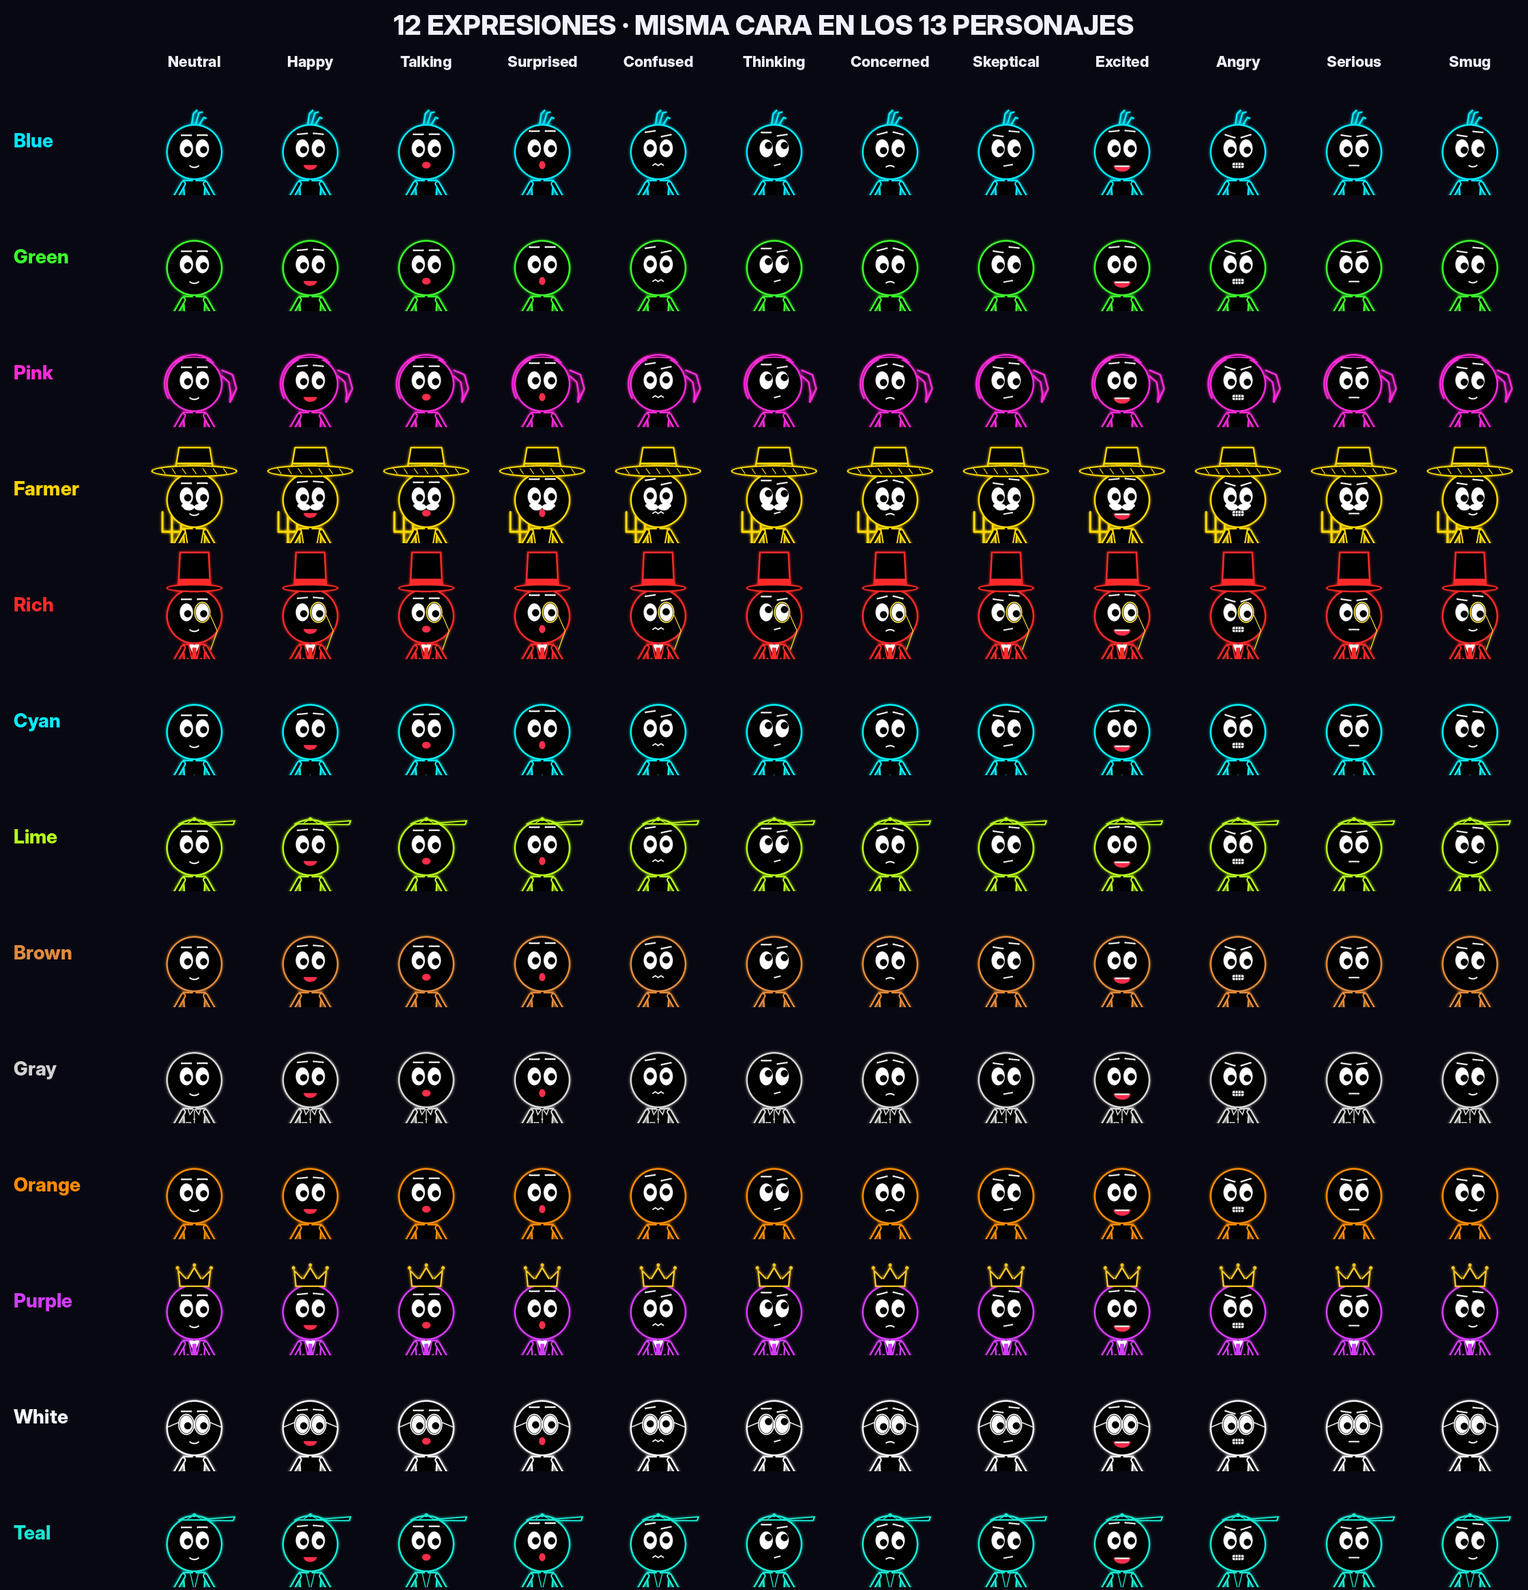
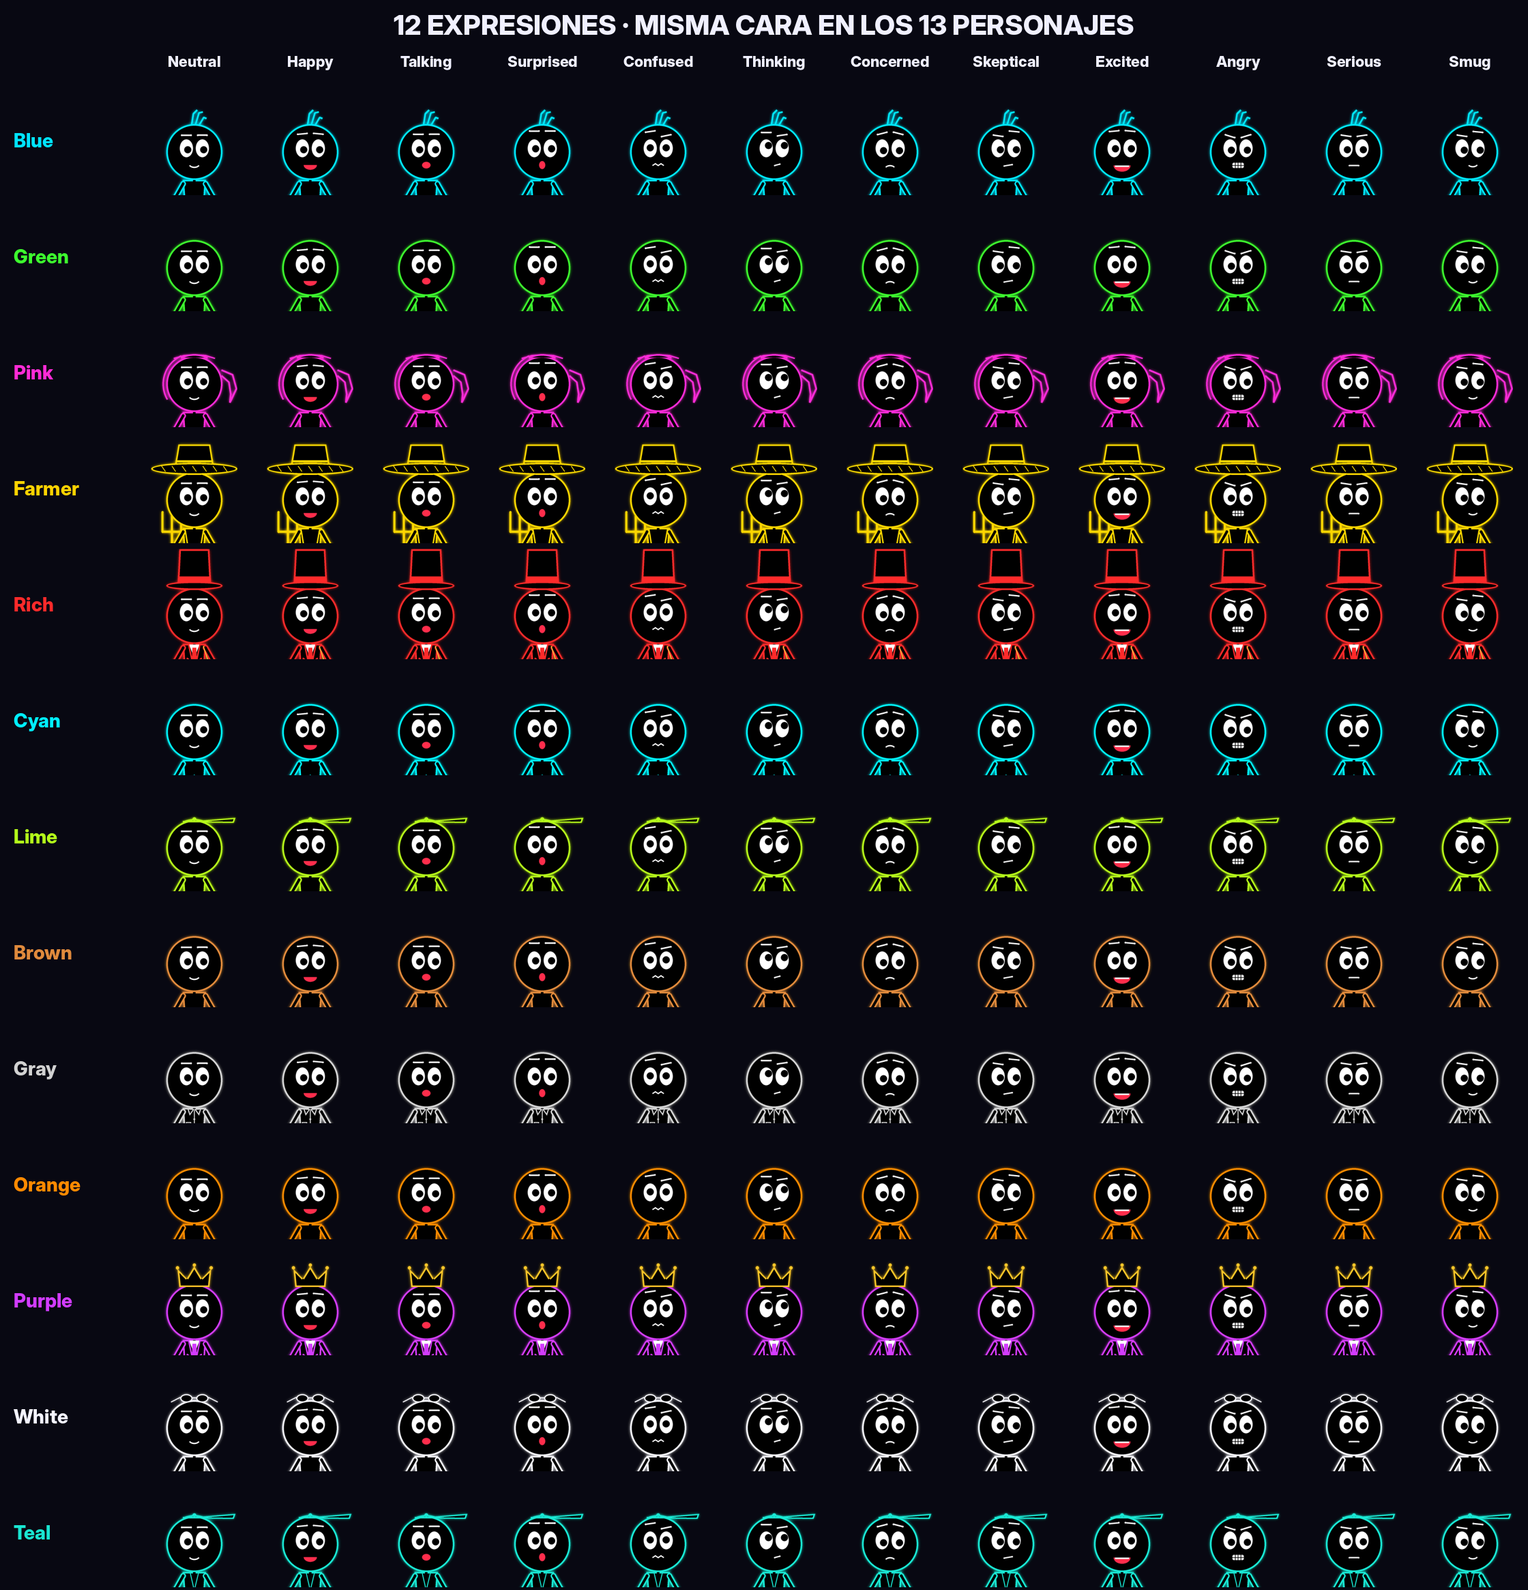
Fase 1: rostro maestro único en los 13 personajes
- Zona facial protegida (ZONA_CARA): ningún accesorio entra en ojos, pupilas, cejas ni boca
- Farmer sin bigote; monóculo de Rich colgado del traje; gafas de White sobre la frente
- Todos parten de la expresión neutral; sin expresiones propias en el catálogo
- validacion.py: mide los rasgos sobre el render y compara los 13 en las 12 expresiones
- Hoja de rostros con superposición e informe validacion_rostro.md
- Sustituye ImageDraw.chord (falla en Pillow 13) por polígonos

Claude-Session: https://claude.ai/code/session_01WwEwTdweciuZS8q7QtA6B5

diff --git a/pilo_studio/personajes/rig.py b/pilo_studio/personajes/rig.py
@@ -30,6 +30,9 @@ PUPILA = dict(r=7.5, base=(3.0, 3.0), max_dx=5.0, max_dy=9.0)
 CEJA = dict(dy=-36.0, semilargo=10.0, grosor=3.4)
 BOCA = dict(dy=27.0)
 ROJO_BOCA = (255, 45, 75)
+# Zona facial protegida (relativa al centro de la cabeza): ojos, pupilas, cejas y boca en
+# todas las expresiones. Ningún accesorio puede dibujar dentro de ella.
+ZONA_CARA = (-36.0, -50.0, 36.0, 46.0)
 BLANCO = (255, 255, 255)
 
 # Lienzo del sprite (u): x ∈ [-LX, LX], y ∈ [-ARRIBA, ABAJO]
@@ -162,7 +165,13 @@ class Lienzo:
         self.d.arc(self.caja(x0, y0, x1, y1), a0, a1, fill=color, width=self.w(ancho))
 
     def cuerda(self, x0, y0, x1, y1, a0, a1, fill):
-        self.d.chord(self.caja(x0, y0, x1, y1), a0, a1, fill=fill)
+        """Cuerda de elipse como polígono (ImageDraw.chord de Pillow 13 falla con ciertas
+        coordenadas y rellena casi toda la elipse)."""
+        cx, cy, rx, ry = (x0 + x1) / 2, (y0 + y1) / 2, abs(x1 - x0) / 2, abs(y1 - y0) / 2
+        n = max(8, int(abs(a1 - a0) / 3))
+        pts = [(cx + rx * math.cos(math.radians(a0 + (a1 - a0) * i / n)),
+                cy + ry * math.sin(math.radians(a0 + (a1 - a0) * i / n))) for i in range(n + 1)]
+        self.d.polygon([self.p(*q) for q in pts], fill=fill)
 
 
 NEGRO = (0, 0, 0)
@@ -260,7 +269,7 @@ def acc_mechon(L, esq, c):
         L.linea([(hx + dx, top + 3), (hx + cx, top + cy), (hx + ex, top + ey)], c, 3.6)
 
 
-Y_TOCADO = -52.0   # línea (relativa al centro de la cabeza) bajo la cual ningún tocado puede bajar
+Y_TOCADO = -57.0   # línea (relativa al centro de la cabeza) bajo la cual ningún tocado puede bajar
 
 
 def _casquete(L, hx, hy, c, extra=3.0, y_corte=Y_TOCADO):
@@ -279,8 +288,8 @@ def acc_cabello_coleta(L, esq, c):
     r = CABEZA["r"]
     _casquete(L, hx, hy, c, extra=4)
     # melena: solo trazos por fuera del contorno de la cabeza (no tocan la cara)
-    L.arco(hx - r - 5, hy - r - 5, hx + r + 5, hy + r + 5, 150, 250, c, 3.4)
-    L.linea([(hx - 42, hy - 46), (hx - 22, hy - 56), (hx, hy - 58), (hx + 24, hy - 56), (hx + 42, hy - 46)], c, 3.0)
+    L.arco(hx - r - 8, hy - r - 8, hx + r + 8, hy + r + 8, 150, 245, c, 3.4)
+    L.linea([(hx - 44, hy - 55), (hx - 22, hy - 61), (hx, hy - 63), (hx + 24, hy - 61), (hx + 44, hy - 55)], c, 3.0)
     # coleta
     L.linea([(hx + r - 2, hy - 30), (hx + r + 22, hy - 20), (hx + r + 30, hy + 10), (hx + r + 16, hy + 40)], c, 3.6)
     L.linea([(hx + r - 2, hy - 18), (hx + r + 14, hy - 4), (hx + r + 18, hy + 22), (hx + r + 16, hy + 40)], c, 3.6)
@@ -294,14 +303,6 @@ def acc_sombrero_paja(L, esq, c):
     L.elipse(hx, y, 92, 13, fill=NEGRO, outline=c, ancho=3.6)
     for k in range(-70, 80, 22):
         L.linea([(hx + k, y - 6), (hx + k + 8, y + 6)], c, 1.6)
-
-
-def acc_bigote(L, esq, c):
-    hx, hy = esq.cabeza
-    y = hy + BOCA["dy"] - 13
-    for s in (-1, 1):
-        L.d.chord(L.caja(hx, y - 6, hx + s * 24, y + 8), 0, 360, fill=BLANCO)
-        L.circulo(hx + s * 24, y - 2, 3.5, fill=BLANCO)
 
 
 def acc_overol(L, esq, c):
@@ -341,11 +342,11 @@ def acc_chistera(L, esq, c):
 
 
 def acc_monoculo(L, esq, c):
-    hx, hy = esq.cabeza
-    ex, ey = hx + OJO["dx"], hy + OJO["dy"]
+    """Monóculo colgado de una cadena sobre el traje: nunca toca la cara."""
+    (xl, y0), (xr, _), _, _ = esq.torso()
     oro = (255, 214, 60)
-    L.elipse(ex, ey, OJO["rx"] + 3.5, OJO["ry"] + 3.5, outline=oro, ancho=2.6)
-    L.linea([(ex + OJO["rx"] + 3, ey + 6), (ex + 32, ey + 40), (ex + 18, ey + 80)], oro, 1.6)
+    L.linea([(xr - 6, y0 + 4), (xr + 4, y0 + 34), (xr + 2, y0 + 56)], oro, 1.6)
+    L.circulo(xr + 2, y0 + 66, 10, outline=oro, ancho=2.6)
 
 
 def acc_casa_pecho(L, esq, c):
@@ -431,11 +432,14 @@ def acc_corona(L, esq, c):
 
 
 def acc_gafas(L, esq, c):
+    """Gafas subidas sobre la frente, por encima de cejas y ojos (fuera de la zona facial)."""
     hx, hy = esq.cabeza
-    for s in (-1, 1):
-        L.elipse(hx + s * OJO["dx"], hy + OJO["dy"], OJO["rx"] + 3.5, OJO["ry"] + 3.5, outline=c, ancho=2.6)
-    for s in (-1, 1):
-        L.linea([(hx + s * (OJO["dx"] + OJO["rx"] + 3), hy + OJO["dy"] - 4), (hx + s * 58, hy - 2)], c, 2.4)
+    y = hy + ZONA_CARA[1] - 14
+    for sx in (-1, 1):
+        L.elipse(hx + sx * 17, y, 13, 9, fill=NEGRO, outline=c, ancho=2.6)
+    L.linea([(hx - 4, y - 1), (hx + 4, y - 1)], c, 2.4)
+    for sx in (-1, 1):
+        L.linea([(hx + sx * 30, y - 2), (hx + sx * 50, y + 8)], c, 2.4)
 
 
 def acc_tableta(L, esq, c):
@@ -456,7 +460,7 @@ def acc_credencial(L, esq, c):
 
 ACCESORIOS = {
     "mechon": ("cabeza", acc_mechon), "cabello_coleta": ("cabeza", acc_cabello_coleta),
-    "sombrero_paja": ("cabeza", acc_sombrero_paja), "bigote": ("cabeza", acc_bigote),
+    "sombrero_paja": ("cabeza", acc_sombrero_paja),
     "overol": ("cuerpo", acc_overol), "horquilla": ("objeto", acc_horquilla),
     "traje": ("cuerpo", acc_traje), "chistera": ("cabeza", acc_chistera), "monoculo": ("cabeza", acc_monoculo),
     "casa_pecho": ("cuerpo", acc_casa_pecho), "gorra": ("cabeza", acc_gorra),
@@ -564,7 +568,7 @@ def render(clave: str, expresion: str | None = None, pose: str | None = None, al
     El ancla (suelo, centro) está en (ancho/2, alto_img - ABAJO*escala).
     """
     p = catalogo()[clave]
-    expresion = expresion or p.get("expresion", "neutral")
+    expresion = expresion or "neutral"   # mismo punto de partida para los 13
     s = alto / ALTURA_FIGURA
     W, H = int(2 * LX * s), int((ARRIBA + ABAJO) * s)
     img = Image.new("RGBA", (W * SS, H * SS), (0, 0, 0, 0))

diff --git a/pilo_studio/personajes/validacion.py b/pilo_studio/personajes/validacion.py
@@ -1,0 +1,102 @@
+"""Validación de la cara maestra sobre los píxeles renderizados.
+
+Se renderiza cada personaje con un "color de sonda" (magenta), sin brillo, y se mide
+en la imagen —no en el código— la posición y el tamaño de ojos, pupilas, cejas y boca.
+Así se comprueba que los 13 personajes comparten exactamente el mismo rostro y que
+ningún accesorio entra en la zona facial.
+"""
+from __future__ import annotations
+
+import numpy as np
+
+from pilo_studio.personajes import rig
+
+SONDA = (255, 0, 255)
+ALTO = 400
+
+
+def _u(alto):
+    return alto / rig.ALTURA_FIGURA
+
+
+def zona_px(alto: int = ALTO) -> tuple[int, int, int, int]:
+    s = _u(alto)
+    ax, ay = rig.ancla(alto)
+    x0, y0, x1, y1 = rig.ZONA_CARA
+    cy = rig.CABEZA["cy"]
+    return (int(round(ax + x0 * s)), int(round(ay + (cy + y0) * s)),
+            int(round(ax + x1 * s)), int(round(ay + (cy + y1) * s)))
+
+
+def render_sonda(clave: str, expresion: str = "neutral", pose: str = "neutral", alto: int = ALTO) -> np.ndarray:
+    return np.array(rig.render(clave, expresion=expresion, pose=pose, alto=alto, brillo=False,
+                               color=SONDA))[..., :3].astype(int)
+
+
+def zona(clave: str, expresion: str = "neutral", alto: int = ALTO) -> np.ndarray:
+    x0, y0, x1, y1 = zona_px(alto)
+    return render_sonda(clave, expresion, alto=alto)[y0:y1, x0:x1]
+
+
+def _bbox(mask, ox, oy, s):
+    ys, xs = np.where(mask)
+    if not len(xs):
+        return None
+    # caja en u relativas al centro de la cabeza: (x0, y0, x1, y1)
+    return tuple(round(float(v), 1) for v in ((xs.min() + ox) / s, (ys.min() + oy) / s,
+                                              (xs.max() + 1 + ox) / s, (ys.max() + 1 + oy) / s))
+
+
+def medir(clave: str, expresion: str = "neutral", alto: int = ALTO) -> dict:
+    """Cajas (u) de cada rasgo facial, medidas en el render."""
+    s = _u(alto)
+    img = zona(clave, expresion, alto)
+    x0, y0, _, _ = rig.ZONA_CARA
+    ox, oy = x0 * s, y0 * s
+    H, W = img.shape[:2]
+    yy, xx = np.mgrid[0:H, 0:W]
+    ux, uy = xx / s + x0, yy / s + y0             # coordenadas u de cada píxel
+    blanco = img.min(axis=2) > 200
+    oscuro = img.max(axis=2) < 60
+    visible = img.max(axis=2) > 60
+    r = {}
+    for lado, sg in (("izq", -1), ("der", 1)):
+        banda_ojo = (np.sign(ux) == sg) & (uy > -30) & (uy < 14)
+        ojo = blanco & banda_ojo
+        r[f"ojo_{lado}"] = _bbox(ojo, ox, oy, s)
+        if r[f"ojo_{lado}"]:
+            a, b, c, d = r[f"ojo_{lado}"]
+            cx, cy, rx, ry = (a + c) / 2, (b + d) / 2, (c - a) / 2, (d - b) / 2
+            dentro = ((ux - cx) / rx) ** 2 + ((uy - cy) / ry) ** 2 < 0.8   # interior del óvalo
+            r[f"pupila_{lado}"] = _bbox(oscuro & dentro, ox, oy, s)
+        r[f"ceja_{lado}"] = _bbox(blanco & (np.sign(ux) == sg) & (uy < -30), ox, oy, s)
+    r["boca"] = _bbox(visible & (uy > 12) & (np.abs(ux) < 30), ox, oy, s)
+    return r
+
+
+def informe(expresiones: list[str] | None = None) -> tuple[bool, str]:
+    """Compara los 13 rostros. Devuelve (todo_ok, texto markdown)."""
+    expresiones = expresiones or list(rig.EXPRESIONES)
+    claves = list(rig.catalogo())
+    lineas = ["# Validación de la cara maestra", "",
+              f"Render de sonda a {ALTO} px, sin brillo. Coordenadas en u relativas al centro de la cabeza "
+              "(caja x0, y0, x1, y1). Zona facial protegida: " + str(rig.ZONA_CARA), ""]
+    ok = True
+    ref_neutral = medir(claves[0], "neutral")
+    lineas += ["## Expresión neutral: medidas comunes a los 13 personajes", "", "| Rasgo | Caja (u) |", "|---|---|"]
+    lineas += [f"| {k} | {v} |" for k, v in ref_neutral.items()]
+    lineas += ["", "## Comparación por expresión", "",
+               "| Expresión | Medidas idénticas en los 13 | Zona facial píxel a píxel idéntica | Distintos |",
+               "|---|---|---|---|"]
+    for e in expresiones:
+        ref_m, ref_z = medir(claves[0], e), zona(claves[0], e)
+        distintos = []
+        for k in claves[1:]:
+            if medir(k, e) != ref_m or np.abs(zona(k, e) - ref_z).max() > 24:
+                distintos.append(k)
+        ok &= not distintos
+        lineas.append(f"| {e} | {'✅' if not distintos else '❌'} | {'✅' if not distintos else '❌'} | "
+                      f"{', '.join(distintos) or '—'} |")
+    lineas += ["", f"**Resultado: {'APROBADO' if ok else 'FALLA'}** — "
+               + ("un solo rostro maestro reutilizado por los 13 personajes." if ok else "revisar los personajes marcados.")]
+    return ok, "\n".join(lineas) + "\n"

diff --git a/pilo_studio/personajes/hoja.py b/pilo_studio/personajes/hoja.py
@@ -6,6 +6,8 @@ Genera en personajes/hojas/:
   hoja_personajes.png   – los 13 personajes por marca, en su pose y expresión de firma
   hoja_expresiones.png  – 13 personajes × 12 expresiones (primer plano, misma cara maestra)
   hoja_poses.png        – las 8 poses oficiales con el narrador de cada marca
+  hoja_rostros.png      – los 13 rostros neutrales, zona facial protegida y superposición
+  validacion_rostro.md  – medidas de ojos, pupilas, cejas y boca en los 13 (sobre el render)
 """
 from __future__ import annotations
 
@@ -14,7 +16,9 @@ from pathlib import Path
 
 from PIL import Image, ImageDraw, ImageFont
 
-from pilo_studio.personajes import rig
+import numpy as np
+
+from pilo_studio.personajes import rig, validacion
 
 FONDO = (8, 8, 18, 255)
 FUENTE = "/usr/share/fonts/opentype/inter/InterDisplay-ExtraBold.otf"
@@ -87,15 +91,55 @@ def hoja_poses() -> Image.Image:
     return img
 
 
+def hoja_rostros() -> Image.Image:
+    alto, celda = 520, 250
+    claves = list(rig.catalogo())
+    img = Image.new("RGBA", (40 + celda * 7, 200 + 2 * (celda + 60)), FONDO)
+    _texto(img, (img.width // 2, 40), "ROSTRO MAESTRO · EXPRESIÓN NEUTRAL · 13 PERSONAJES", 40)
+    _texto(img, (img.width // 2, 90), "Recuadro discontinuo = zona facial protegida (ningún accesorio entra)", 24, (170, 170, 200))
+    caja = rig.caja_cabeza(alto, margen=1.55)
+    zx0, zy0, zx1, zy1 = validacion.zona_px(alto)
+    zonas = []
+    for i, k in enumerate(claves + ["__superpuestos"]):
+        x, y = 20 + (i % 7) * celda, 130 + (i // 7) * (celda + 60)
+        if k == "__superpuestos":
+            media = np.mean(zonas, axis=0).astype("uint8")
+            cab = Image.fromarray(media).convert("RGBA")
+            cab = cab.resize((int(cab.width * 1.6), int(cab.height * 1.6)), Image.LANCZOS)
+            img.alpha_composite(cab, (x + (celda - cab.width) // 2, y + (celda - cab.height) // 2))
+            _texto(img, (x + celda // 2, y + celda + 25), "13 SUPERPUESTOS", 22)
+            continue
+        sp = rig.render(k, expresion="neutral", pose="neutral", alto=alto)
+        d = ImageDraw.Draw(sp)
+        for t in range(0, zx1 - zx0, 14):   # recuadro discontinuo de la zona facial
+            d.line([(zx0 + t, zy0), (min(zx0 + t + 7, zx1), zy0)], fill=(255, 255, 255, 160), width=2)
+            d.line([(zx0 + t, zy1), (min(zx0 + t + 7, zx1), zy1)], fill=(255, 255, 255, 160), width=2)
+        for t in range(0, zy1 - zy0, 14):
+            d.line([(zx0, zy0 + t), (zx0, min(zy0 + t + 7, zy1))], fill=(255, 255, 255, 160), width=2)
+            d.line([(zx1, zy0 + t), (zx1, min(zy0 + t + 7, zy1))], fill=(255, 255, 255, 160), width=2)
+        cab = sp.crop(caja)
+        cab.thumbnail((celda - 10, celda - 10))
+        img.alpha_composite(cab, (x + (celda - cab.width) // 2, y + (celda - cab.height) // 2))
+        p = rig.catalogo()[k]
+        _texto(img, (x + celda // 2, y + celda + 25), p["nombre"].upper(), 26, p["rgb"])
+        zonas.append(validacion.zona(k, "neutral", alto).clip(0, 255))
+    return img
+
+
 def generar(salida: Path | None = None) -> list[Path]:
     salida = Path(salida or rig.RAIZ / "personajes" / "hojas")
     salida.mkdir(parents=True, exist_ok=True)
     rutas = []
     for nombre, fn in (("hoja_personajes", hoja_personajes), ("hoja_expresiones", hoja_expresiones),
-                       ("hoja_poses", hoja_poses)):
+                       ("hoja_poses", hoja_poses), ("hoja_rostros", hoja_rostros)):
         r = salida / f"{nombre}.png"
         fn().convert("RGB").save(r, optimize=True)
         rutas.append(r)
+    ok, texto = validacion.informe()
+    r = salida / "validacion_rostro.md"
+    r.write_text(texto, encoding="utf-8")
+    rutas.append(r)
+    print("Validación del rostro:", "APROBADO" if ok else "FALLA")
     return rutas
 
 

diff --git a/tests/test_rig.py b/tests/test_rig.py
@@ -3,7 +3,7 @@ import numpy as np
 import pytest
 import yaml
 
-from pilo_studio.personajes import rig
+from pilo_studio.personajes import rig, validacion
 
 ALTO = 330
 PERSONAJES = list(rig.catalogo())
@@ -62,3 +62,25 @@ def test_la_geometria_de_la_cabeza_no_depende_del_personaje():
         filas, cols = np.where(a > 0)
         cajas.add((int(filas.min()), int(cols[filas == filas.min()].mean())))
     assert len(cajas) == 1
+
+
+def test_rostro_neutral_mismas_coordenadas_y_dimensiones():
+    """Ojos, pupilas, cejas y boca medidos en el render: idénticos en los 13."""
+    ref = validacion.medir("blue", "neutral")
+    assert all(ref.values()), ref
+    for k in PERSONAJES:
+        assert validacion.medir(k, "neutral") == ref, k
+
+
+@pytest.mark.parametrize("expresion", list(rig.EXPRESIONES))
+def test_zona_facial_identica_y_sin_accesorios(expresion):
+    """Toda la zona facial (no solo los rasgos) es idéntica píxel a píxel: ningún accesorio la invade."""
+    ref = validacion.zona("blue", expresion)
+    for k in PERSONAJES:
+        assert np.abs(validacion.zona(k, expresion) - ref).max() <= 24, f"{k} invade la zona facial en '{expresion}'"
+
+
+def test_sin_expresiones_propias_ni_accesorios_faciales():
+    for k, p in rig.catalogo().items():
+        assert "expresion" not in p, f"{k} no puede tener expresión propia"
+        assert "bigote" not in p["accesorios"], k

diff --git a/PROGRESO.md b/PROGRESO.md
@@ -6,7 +6,7 @@ Archivo para reanudar el trabajo sin repetir tareas. Se actualiza al cerrar cada
 | Fase | Estado | Notas |
 |---|---|---|
 | 0 · Auditoría | ✅ Hecha (2026-11-28) | Ver auditoría en la conversación; sin cambios en el repo desde entonces. |
-| 1 · Personajes | 🟡 Construida y probada · **pendiente de aprobación visual** | `pilo_studio/personajes/`, `personajes/personajes.yaml`, `personajes/hojas/`, `tests/test_rig.py` |
+| 1 · Personajes | 🟡 Corrección final aplicada (rostro único) · **pendiente de aprobación visual** | `pilo_studio/personajes/`, `personajes/personajes.yaml`, `personajes/hojas/`, `tests/test_rig.py` |
 | 2 · Biblioteca visual | ⏳ Bloqueada por la aprobación de la fase 1 | Partir de `pruebas/prueba-produccion-01/scripts/02_montaje.py` |
 | 3 · Audio | ⏳ | Kokoro funciona técnicamente; **falta la escucha humana** de `pruebas/prueba-produccion-01/audio/narracion.wav` |
 | 4 · Motor | ⏳ | |
@@ -19,6 +19,10 @@ Archivo para reanudar el trabajo sin repetir tareas. Se actualiza al cerrar cada
 - Ningún tocado baja de `Y_TOCADO` (por encima de las cejas); gafas y monóculo son anillos ceñidos que no tapan el ojo.
 - Poses por cinemática inversa (posición de manos y pies) → poses nuevas en una línea.
 - Test de consistencia con **color de sonda**: detecta incluso accesorios blancos sobre ojos blancos.
+- **Rostro único (corrección del director, 2026-11-28):** `ZONA_CARA` protegida; sin bigote (Farmer),
+  monóculo colgado del traje (Rich), gafas sobre la frente (White); los 13 parten de `neutral` y no
+  tienen expresiones propias. `validacion.py` mide los rasgos sobre el render → `personajes/hojas/validacion_rostro.md`.
+- Pillow 13: `ImageDraw.chord` falla con ciertas coordenadas → `Lienzo.cuerda` dibuja polígonos.
 
 ## Entorno (este contenedor)
 - Instalado aquí: `requirements-dev.txt` (moviepy, anthropic, pytest…), kokoro-onnx, piper-tts, espeak-ng.

diff --git a/personajes/hojas/validacion_rostro.md b/personajes/hojas/validacion_rostro.md
@@ -1,0 +1,34 @@
+# Validación de la cara maestra
+
+Render de sonda a 400 px, sin brillo. Coordenadas en u relativas al centro de la cabeza (caja x0, y0, x1, y1). Zona facial protegida: (-36.0, -50.0, 36.0, 46.0)
+
+## Expresión neutral: medidas comunes a los 13 personajes
+
+| Rasgo | Caja (u) |
+|---|---|
+| ojo_izq | (-31.2, -26.7, -3.0, 11.2) |
+| pupila_izq | (-21.5, -12.2, -6.2, 2.3) |
+| ceja_izq | (-28.8, -37.1, -5.4, -33.9) |
+| ojo_der | (3.4, -26.7, 30.8, 11.2) |
+| pupila_der | (13.1, -12.2, 27.6, 2.3) |
+| ceja_der | (5.9, -37.1, 28.4, -33.9) |
+| boca | (-11.0, 28.1, 11.5, 34.5) |
+
+## Comparación por expresión
+
+| Expresión | Medidas idénticas en los 13 | Zona facial píxel a píxel idéntica | Distintos |
+|---|---|---|---|
+| neutral | ✅ | ✅ | — |
+| happy | ✅ | ✅ | — |
+| talking | ✅ | ✅ | — |
+| surprised | ✅ | ✅ | — |
+| confused | ✅ | ✅ | — |
+| thinking | ✅ | ✅ | — |
+| concerned | ✅ | ✅ | — |
+| skeptical | ✅ | ✅ | — |
+| excited | ✅ | ✅ | — |
+| angry | ✅ | ✅ | — |
+| serious | ✅ | ✅ | — |
+| smug | ✅ | ✅ | — |
+
+**Resultado: APROBADO** — un solo rostro maestro reutilizado por los 13 personajes.
